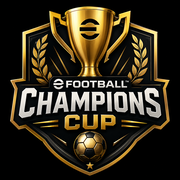
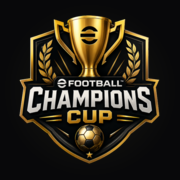
feat(branding): прозрачный логотип без кружка + корректные PWA-иконки
- Логотип: убрал круглую обёртку (rounded-full+ring), сам щит на прозрачном
  фоне; мягкое золотое drop-shadow по контуру.
- Иконки были на непрозрачном чёрном квадрате и помечены 'any maskable' —
  при установке лаунчер обрезал логотип и подкладывал чёрный фон.
  Убрал чёрный фон (флуд-филл от углов, золотая рамка щита даёт чистый край),
  логотип максимизирован.
- Разделил назначения: icon-192/512 'any' (прозрачные, крупный знак) +
  новый icon-maskable-512 'maskable' (щит в safe-zone на тёмном премиум-фоне).
- apple-touch-icon на тёмном фоне (iOS не поддерживает прозрачность),
  favicon пересобран прозрачным.

diff --git a/web/components/BrandLogo.tsx b/web/components/BrandLogo.tsx
@@ -1,6 +1,6 @@
-// Фирменный знак проекта — золотой кубок «Champions Cup» (icon-192 из PWA-набора,
-// один файл на всё приложение). Круглый, как клубные эмблемы, с тонкой золотой
-// окантовкой и мягким свечением — «3D-шильдик» в шапке и на карточках.
+// Фирменный знак проекта — золотой щит «Champions Cup» (icon-192 из PWA-набора,
+// прозрачный фон). Без круглой обёртки — сам силуэт щита; мягкое золотое
+// drop-shadow по контуру даёт премиальный «3D-шильдик» в шапке и на карточках.
 export function BrandLogo({ size = 32, className = "" }: { size?: number; className?: string }) {
   return (
     // eslint-disable-next-line @next/next/no-img-element
@@ -10,7 +10,7 @@ export function BrandLogo({ size = 32, className = "" }: { size?: number; classN
       width={size}
       height={size}
       draggable={false}
-      className={`flex-shrink-0 select-none rounded-full ring-1 ring-yellow-500/40 shadow-[0_0_10px_rgba(212,175,55,0.25)] ${className}`}
+      className={`flex-shrink-0 select-none drop-shadow-[0_1px_4px_rgba(212,175,55,0.35)] ${className}`}
       style={{ width: size, height: size }}
     />
   );
